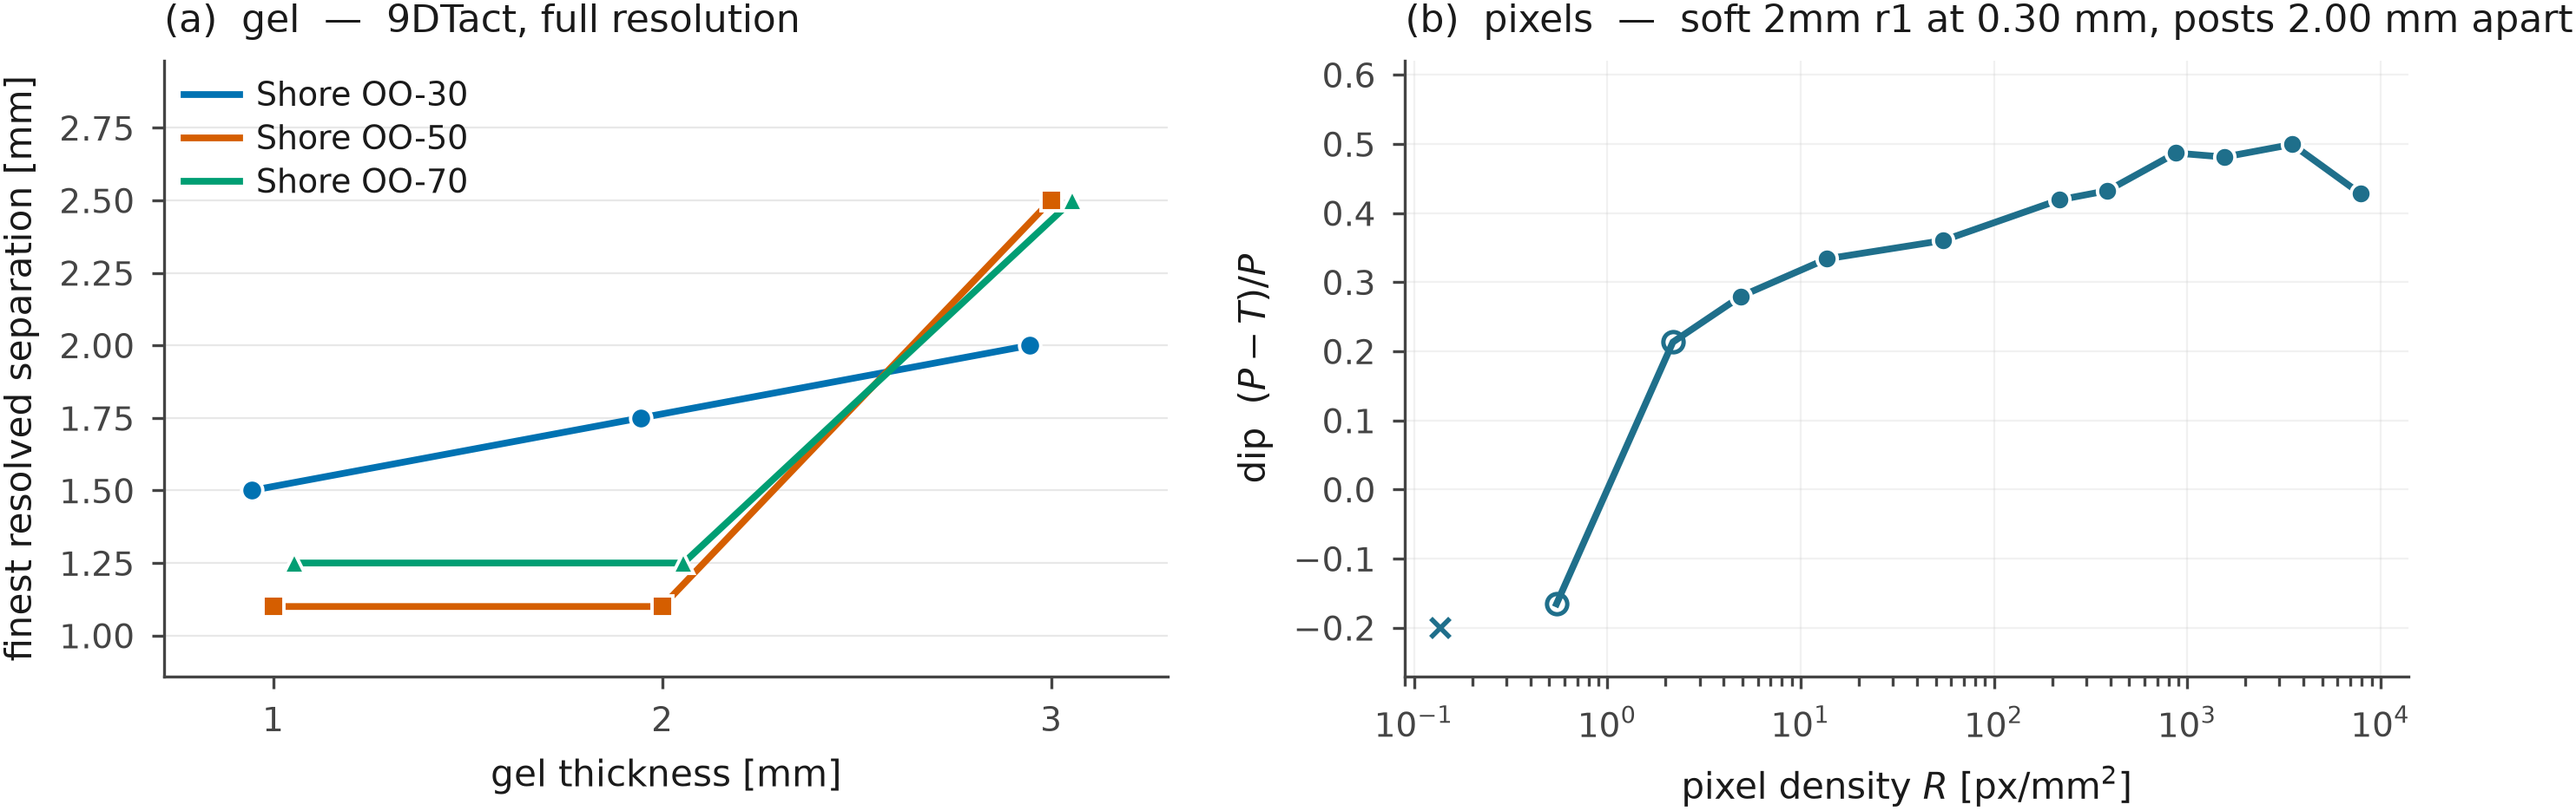
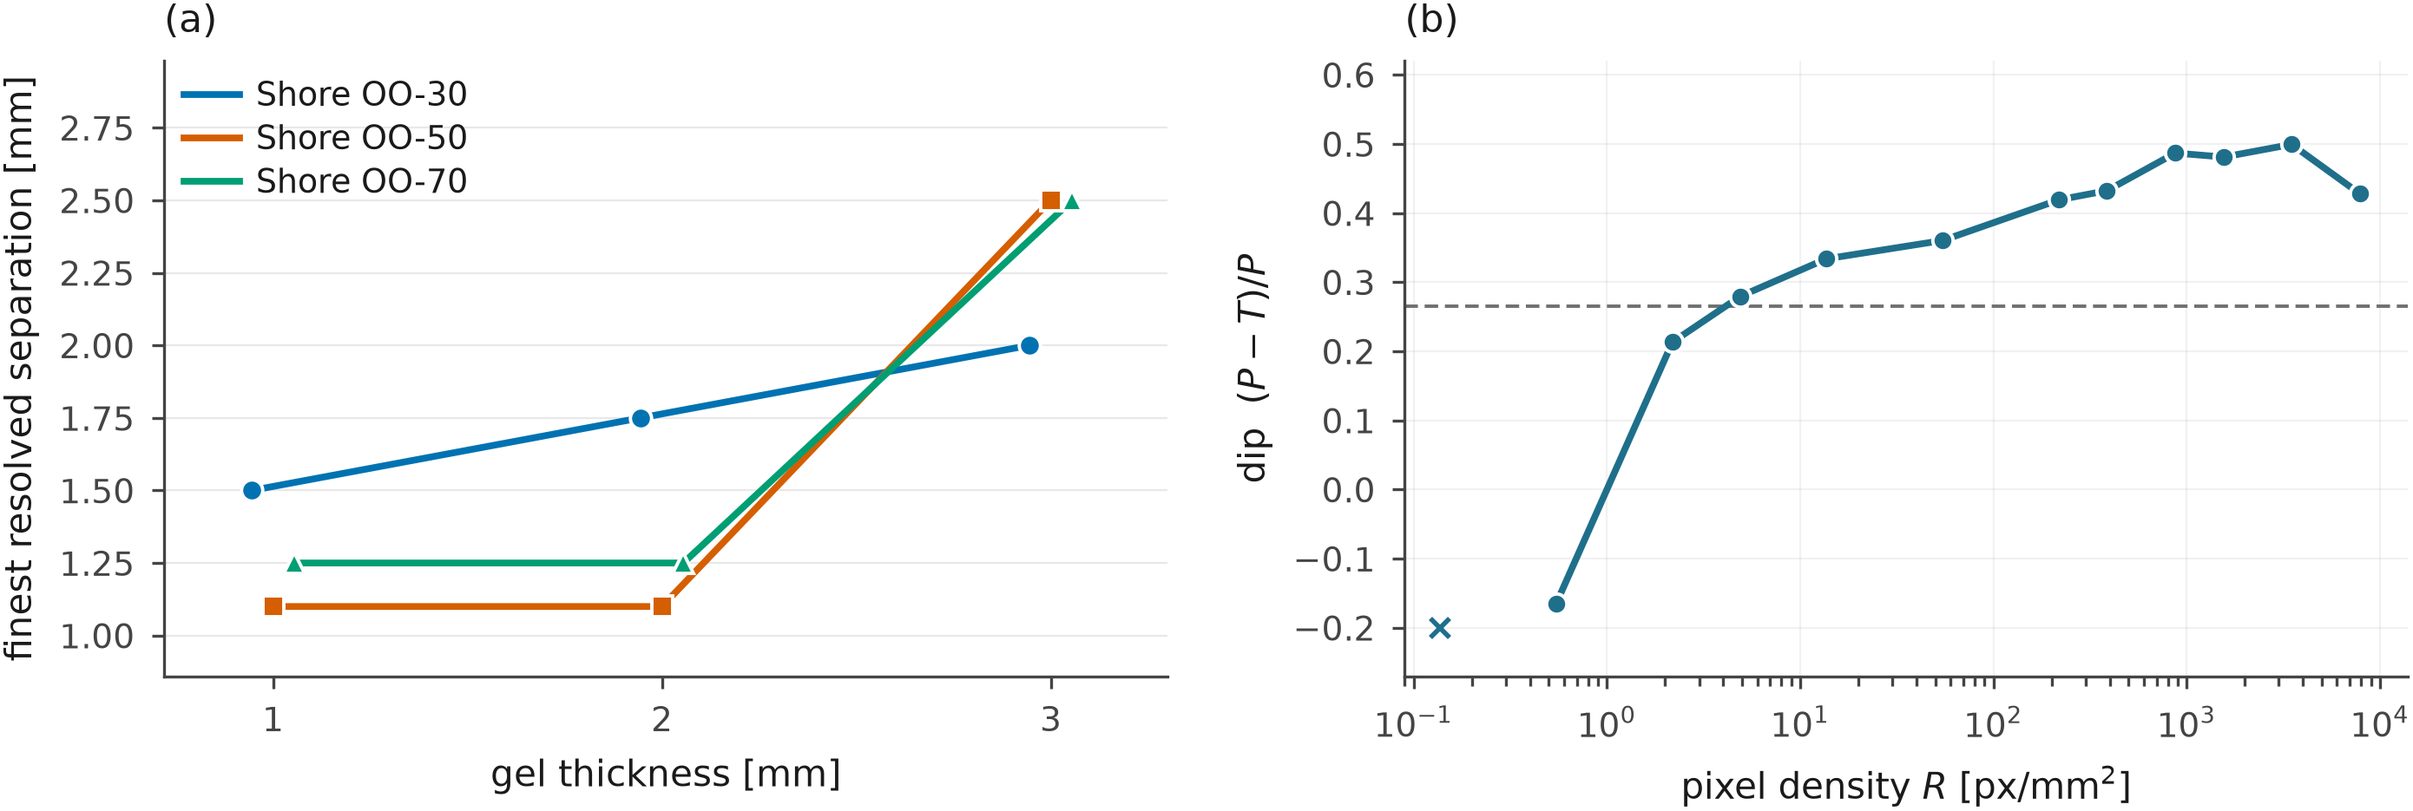
F4 — Rayleigh 파선을 되살리고 표식을 하나로, 제목은 (a)·(b) 만
문턱 선이 돌아왔으므로 표식으로 판정을 나눌 필요가 없다. 빈 동그라미를
없애고 점을 전부 같게 찍는다 -- 선 아래에 있다는 것이 곧 미분해다. 글자와
음영은 그대로 뺀 채 선만 넣었다.

제목이 (a)·(b) 뿐이라 캡션이 져야 할 것이 하나 늘었다: 어느 패널이 무엇인지.
다섯 항목을 docstring 과 계획서에 적었다.

Claude-Session: https://claude.ai/code/session_016iQhAWxVDAfi9YqRbr7KDo

diff --git a/paper/fin_figures/paper_fig_separation.py b/paper/fin_figures/paper_fig_separation.py
@@ -32,15 +32,18 @@
     이 시편에서는 관문 셋 중 둘만 문다 — 골이 Rayleigh 를 넘긴 단은 밝기·잡음
     관문에 한 번도 걸리지 않는다(아래 `assert`). **Rayleigh 와 접촉 검출**만 남는다.
 
-캡션이 져야 할 것 — 그림 안의 글자·선을 줄였으므로(운전자 결정) 넷을 캡션이 진다
-    1. **가장 좁은 압자가 중심 간격 1.10 mm** 라는 것, 그리고 **광도 스테레오는
+캡션이 져야 할 것 — 그림 안의 글자를 걷어냈으므로(운전자 결정) 다섯을 캡션이 진다
+    1. **어느 패널이 무엇인가.** 제목이 `(a)` · `(b)` 뿐이다 —
+       (a) 깊이 참조형 아홉 시편, 전해상도.
+       (b) `soft_2mm_r1`, 압입 0.30 mm, 두 기둥 중심 간격 2.00 mm.
+    2. **가장 좁은 압자가 중심 간격 1.10 mm** 라는 것, 그리고 **광도 스테레오는
        여덟 시편 모두 그 바닥에 있어 한계를 못 봤다**는 것. (a) 에 그 바닥을
        가리키는 선이 없다.
-    2. **판정 문턱이 dip ≥ 0.265 (Rayleigh)** 라는 것. (b) 에 선이 없으므로 빈
-       동그라미가 왜 빈 것인지 캡션이 말해야 한다 — 그 문턱 아래라는 뜻이다.
-    3. (b) 왼쪽 끝의 `×` 는 **접촉 덩어리 자체를 못 찾은 단**이다 — 골이 얕아
-       못 가른 것(빈 동그라미)과 다른 실패다.
-    4. (a) 의 **두께 경향** — Spearman rho +0.75 (p 0.02, n 9). 경도는 −0.13
+    3. (b) 의 **파선이 Rayleigh 문턱 dip = 0.265** 라는 것. 선은 있고 글자는 없다.
+       판정은 **선 위/아래**로 읽는다 — 표식은 전부 같게 찍었다.
+    4. (b) 왼쪽 끝의 `×` 는 **접촉 덩어리 자체를 못 찾은 단**이다 — 골이 얕아
+       못 가른 것(파선 아래의 점)과 다른 실패다.
+    5. (a) 의 **두께 경향** — Spearman rho +0.75 (p 0.02, n 9). 경도는 −0.13
        (p 0.73). 스크립트가 표준출력으로 낸다.
 
 말하지 않는 것
@@ -100,8 +103,7 @@ def panel_gel(ax):
     ax.set_ylim(0.86, 2.98)
     ax.set_xlabel("gel thickness [mm]")
     ax.set_ylabel("finest resolved separation [mm]")
-    ax.set_title(f"(a)  gel  —  {DISPLAY['9DTact']}, full resolution",
-                 fontsize=8.0, loc="left")
+    ax.set_title("(a)", fontsize=8.0, loc="left")
     PS.style(ax)
     return nine.assign(rho_thickness=rho, p_thickness=p), rho, p
 
@@ -121,13 +123,10 @@ def panel_pixels(ax):
     assert (passed.verdict == "분해").all(), "Rayleigh 를 넘겼는데 분해가 아니다"
 
     c = PS.PRINCIPLE["9DTact"]
+    ax.axhline(RAYLEIGH, c=PS.MUTED, lw=0.7, ls=(0, (4, 2)), zorder=1)
     ax.plot(seen.density_px_per_mm2, seen.dip, "-", c=c, lw=1.4, zorder=3)
-    res = seen[seen.verdict == "분해"]
-    no = seen[seen.verdict != "분해"]
-    ax.plot(res.density_px_per_mm2, res.dip, "o", c=c, ms=4.2, mec="white",
+    ax.plot(seen.density_px_per_mm2, seen.dip, "o", c=c, ms=4.2, mec="white",
             mew=0.7, ls="none", zorder=4)
-    ax.plot(no.density_px_per_mm2, no.dip, "o", mfc="none", mec=c, mew=0.9,
-            ms=4.2, ls="none", zorder=4)
     # 접촉 덩어리 자체를 못 찾은 단 — 값이 없으므로 축 바닥에 따로 찍는다.
     # 글자는 넣지 않는다(운전자 결정) — 캡션이 말해야 한다.
     lost = u[u.dip.isna()]
@@ -139,13 +138,11 @@ def panel_pixels(ax):
     ax.set_ylim(-0.27, 0.62)
     ax.set_xlabel(r"pixel density $R$ [px/mm$^2$]")
     ax.set_ylabel("dip  $(P-T)/P$")
-    ax.set_title(f"(b)  pixels  —  {SWEEP_UNIT.replace('_', ' ')} at "
-                 f"{SWEEP_DEPTH_MM:.2f} mm, posts {SEP_MM:.2f} mm apart",
-                 fontsize=8.0, loc="left")
+    ax.set_title("(b)", fontsize=8.0, loc="left")
     PS.style(ax, grid=None)
     ax.grid(alpha=0.25, lw=0.4, color="#c8c8c8")
     ax.set_axisbelow(True)
-    return u, res.density_px_per_mm2.min()
+    return u, seen[seen.verdict == "분해"].density_px_per_mm2.min()
 
 
 def main():
